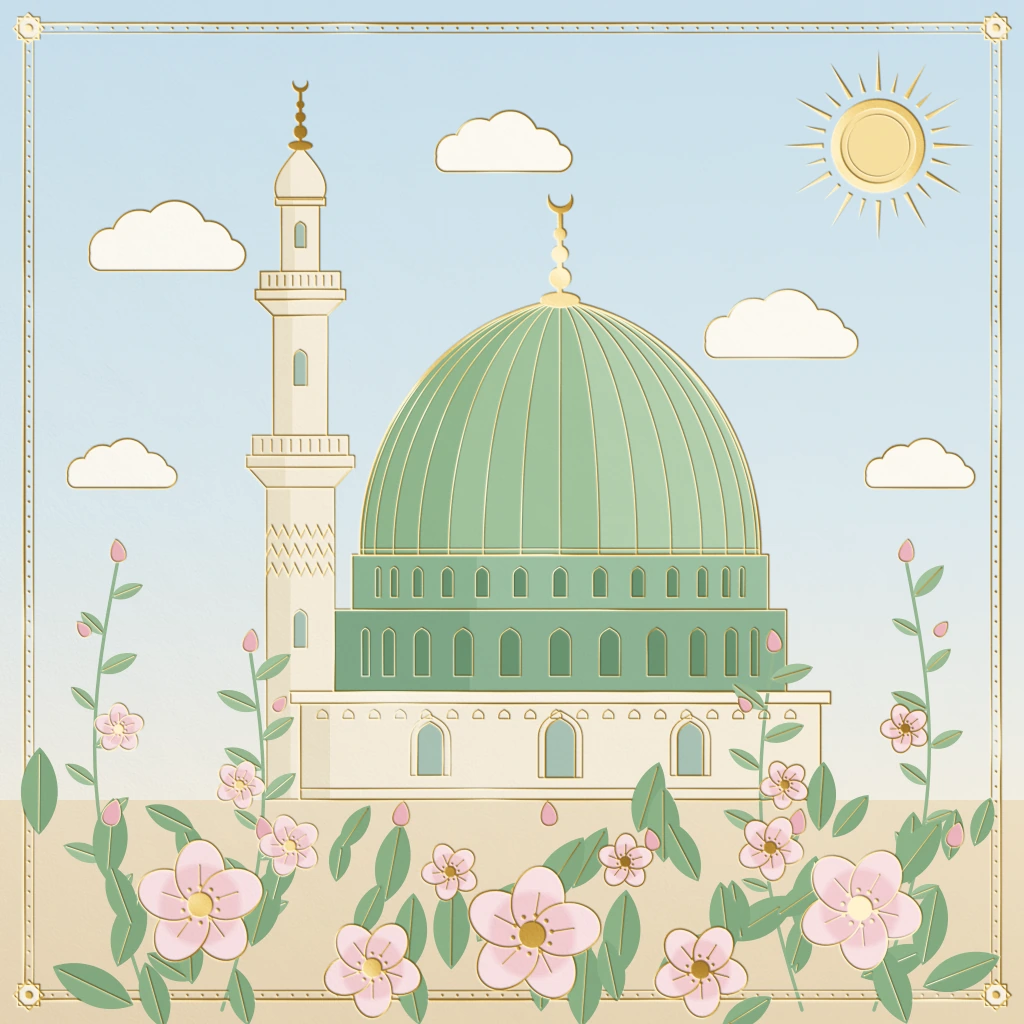
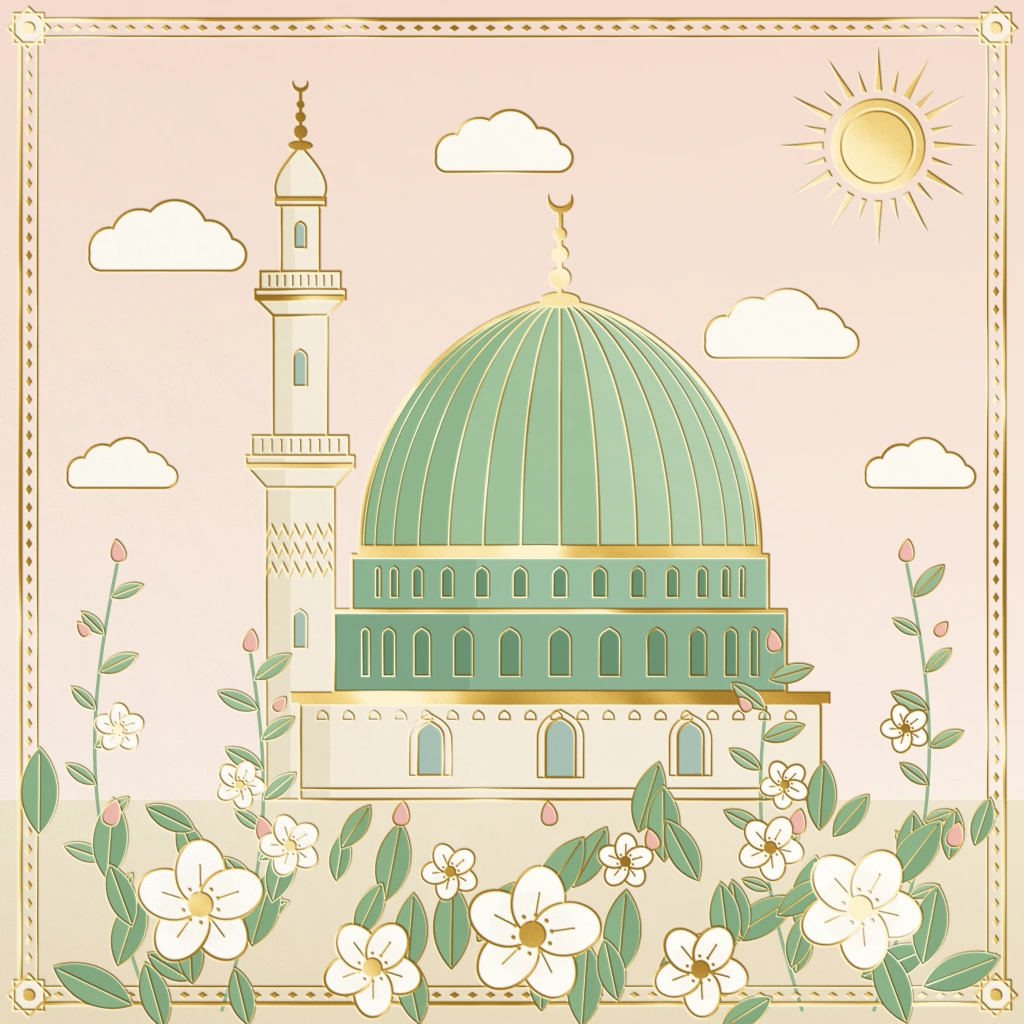
Atölye: dördüncü tur gözden geçirmelerinin ara kaydı
Claude-Session: https://claude.ai/code/session_01Q8CfoBGMPN7gfLWQYpMs1J

diff --git a/atolye/stiller/S-150-altin-varakli-kart/ornek.html b/atolye/stiller/S-150-altin-varakli-kart/ornek.html
@@ -243,14 +243,14 @@
 
   const R = {
     kart: '#F8F2E3',
-    gokUst: '#C9DFEC', gokAlt: '#F2EEE3',
+    gokUst: '#F5DCCD', gokAlt: '#FAEEE4',
     gunes: '#F7DE9E', bulut: '#FCF9F1',
     tas: '#F5EDDB', tasGolge: '#ECE1C9', pencereTas: '#A9C2B4',
     kasnakAlt: '#8DB394', kasnakAltG: '#7FA787', kasnakUst: '#9CC0A1', kasnakUstG: '#8DB493',
     kubbeA: '#B2CFAD', kubbeB: '#A1C39D', kubbeC: '#90B68D', pencereYesil: '#6A9370',
-    zemin: '#EEDFC4', zeminAlt: '#E8D6B6',
+    zemin: '#F1E6CF', zeminAlt: '#ECDDC0',
     yaprak: '#A3C49D', yaprakKoyu: '#8DB389', sap: '#94B790',
-    tac: '#F4CDD2', tacAcik: '#FAE3E5', tomurcuk: '#EDB4BE',
+    tac: '#FDFAF2', tacAcik: '#FFFDF8', tomurcuk: '#F0B9AE',
   };
   const rect = (x1, y1, x2, y2) => { const p = new Path2D(); p.rect(x1, y1, x2 - x1, y2 - y1); return p; };
   const daire = (cx, cy, r) => { const p = new Path2D(); p.arc(cx, cy, r, 0, Math.PI * 2); return p; };
@@ -258,8 +258,9 @@
 
   B.fillStyle = R.kart; B.fillRect(0, 0, 1024, 1024);
   {
+    // düz baskı gök: iki tonlu yumuşak şeftali-allık
     const g = B.createLinearGradient(0, 40, 0, 800);
-    g.addColorStop(0, R.gokUst); g.addColorStop(0.62, '#DCE9EE'); g.addColorStop(1, R.gokAlt);
+    g.addColorStop(0, R.gokUst); g.addColorStop(0.55, '#F8E6DA'); g.addColorStop(1, R.gokAlt);
     B.fillStyle = g; B.fillRect(0, 0, 1024, 800);
     const z = B.createLinearGradient(0, 800, 0, 1024);
     z.addColorStop(0, R.zemin); z.addColorStop(1, R.zeminAlt);
@@ -268,11 +269,15 @@
 
   // ---------------------------------------------------------------- çerçeve (folyo) ve köşe yıldızları
   {
-    fCiz(rect(24, 24, 1000, 1000), 2.4);
-    fCiz(rect(33, 33, 991, 991), 1.1);
-    // iki çizgi arasında ince folyo inci dizisi
-    for (let t = 52; t <= 972; t += 15) {
-      for (const [x, y] of [[t, 28.5], [t, 995.5], [28.5, t], [995.5, t]]) fDol(daire(x, y, 1.25));
+    fCiz(rect(20, 20, 1004, 1004), 4.2);
+    fCiz(rect(37, 37, 987, 987), 2.0);
+    // iki çizgi arasında folyo baklava dizisi
+    const baklava = (x, y, r) => { const p = new Path2D(); p.moveTo(x - r, y); p.lineTo(x, y - r * 0.62); p.lineTo(x + r, y); p.lineTo(x, y + r * 0.62); p.closePath(); return p; };
+    for (let t = 58; t <= 966; t += 18) {
+      fDol(baklava(t, 28.5, 5.2)); fDol(baklava(t, 995.5, 5.2));
+      const q = baklava(0, 0, 5.2);
+      F.save(); F.translate(28.5, t); F.rotate(Math.PI / 2); F.fill(q); F.restore();
+      F.save(); F.translate(995.5, t); F.rotate(Math.PI / 2); F.fill(q); F.restore();
     }
     const yildiz = (cx, cy, r) => {
       const p = new Path2D();
@@ -288,11 +293,11 @@
       return p;
     };
     for (const [cx, cy] of [[28.5, 28.5], [995.5, 28.5], [28.5, 995.5], [995.5, 995.5]]) {
-      const y = yildiz(cx, cy, 15);
+      const y = yildiz(cx, cy, 21);
       B.fillStyle = R.kart; B.fill(y, 'nonzero');
       F.save(); F.globalCompositeOperation = 'destination-out'; F.fill(y, 'nonzero'); F.restore();
-      fCiz(y, 1.8);
-      fDol(daire(cx, cy, 4.2));
+      fCiz(y, 2.4);
+      fDol(daire(cx, cy, 6.5));
     }
   }
 
@@ -300,13 +305,12 @@
   {
     const cx = 878, cy = 146;
     fDol(daire(cx, cy, 47));
-    F.save(); F.globalCompositeOperation = 'destination-out'; F.fill(daire(cx, cy, 37)); F.restore();
-    dol(daire(cx, cy, 37), R.gunes);
-    fCiz(daire(cx, cy, 31), 1.0);
+    F.save(); F.globalCompositeOperation = 'destination-out'; F.lineWidth = 2.2; F.stroke(daire(cx, cy, 36)); F.restore();
+    dol(daire(cx, cy, 47), R.gunes);
     for (let k = 0; k < 24; k++) {
       const a = (k / 24) * Math.PI * 2 - Math.PI / 2;
       const uzun = k % 2 === 0;
-      const r0 = 55, r1 = uzun ? 96 : 76, yw = uzun ? 0.045 : 0.035;
+      const r0 = 55, r1 = uzun ? 100 : 78, yw = uzun ? 0.07 : 0.05;
       const p = new Path2D();
       p.moveTo(cx + Math.cos(a - yw) * r0, cy + Math.sin(a - yw) * r0);
       p.lineTo(cx + Math.cos(a) * r1, cy + Math.sin(a) * r1);
@@ -329,7 +333,7 @@
   for (const [x, y, s] of [[156, 248, 0.92], [494, 152, 0.8], [770, 336, 0.9], [912, 472, 0.64], [114, 472, 0.64]]) {
     const p = bulutYolu(x, y, s);
     // dış hat: biraz büyütülmüş folyo kontur (birleşik biçimin çevresi)
-    F.save(); F.lineWidth = 3.2; F.stroke(p); F.restore();
+    F.save(); F.lineWidth = 5.0; F.stroke(p); F.restore();
     dol(p, R.bulut);
     F.save(); F.globalCompositeOperation = 'destination-out'; F.fill(p); F.restore();
   }
@@ -345,19 +349,24 @@
       dol(d, R.tas);
       // tek ton gölge: sol yarı
       B.save(); B.clip(d); B.fillStyle = R.tasGolge; B.fillRect(x1 - 2, 0, (x2 - x1) * 0.36 + 2, 1024); B.restore();
-      fCiz(d, 1.5);
+      fCiz(d, 2.4);
       if (p.tip === 'korkuluk') {
         for (let i = 0; i < 9; i++) {
           const x = p.x1 + 5 + ((p.x2 - p.x1 - 10) * (i + 0.5)) / 9;
           const l = new Path2D(); l.moveTo(x, p.y1 + 4); l.lineTo(x, p.y2 - 4);
-          fCiz(l, 1.3);
+          fCiz(l, 1.8);
         }
       }
     }
-    for (const z of S.zikzakCizgileri()) { F.lineJoin = 'miter'; fCiz(P(S.yol(z)), 1.7); F.lineJoin = 'round'; }
+    for (const z of S.zikzakCizgileri()) { F.lineJoin = 'miter'; fCiz(P(S.yol(z)), 2.6); F.lineJoin = 'round'; }
     for (const w of S.minarePencereleri) {
       const d = P(S.kemerYolu(w.x, w.y, w.w, w.h));
-      dol(d, R.pencereTas); fCiz(d, 1.3);
+      dol(d, R.pencereTas); fCiz(d, 2.0);
+    }
+    // şerefe ve bilezik altında dolu folyo şerit
+    for (const p of S.minareParcalari()) {
+      if (p.ad.startsWith('şerefe')) { const y2 = p.noktalar[2][1]; F.fillRect(p.noktalar[0][0] + 1, y2 - 5, p.noktalar[1][0] - p.noktalar[0][0] - 2, 4); }
+      if (p.ad === 'bilezik') F.fillRect(p.noktalar[0][0], p.noktalar[0][1], p.noktalar[1][0] - p.noktalar[0][0], 4);
     }
   }
 
@@ -368,18 +377,19 @@
     F.save(); F.globalCompositeOperation = 'destination-out'; F.fill(g); F.fill(rect(K.kornis.x1, K.kornis.y1, K.kornis.x2, K.kornis.y2)); F.restore();
     dol(g, R.tas);
     B.save(); B.clip(g); B.fillStyle = R.tasGolge; B.fillRect(K.x1, K.y1, 30, K.y2 - K.y1); B.restore();
-    fCiz(g, 2.0);
+    fCiz(g, 3.0);
     const kp = K.kornis;
     const kr = rect(kp.x1, kp.y1, kp.x2, kp.y2);
-    dol(kr, '#FAF4E6'); fCiz(kr, 1.7);
-    const ts = new Path2D(); ts.moveTo(K.x1, 789); ts.lineTo(K.x2, 789); fCiz(ts, 1.2);
+    // korniş: dolu folyo bant
+    dol(kr, '#FAF4E6'); fDol(kr);
+    const ts = new Path2D(); ts.moveTo(K.x1, 789); ts.lineTo(K.x2, 789); fCiz(ts, 2.2);
     // korniş altında küçük kemer frizi (folyo)
-    for (let x = K.x1 + 22; x <= K.x2 - 20; x += 26) fCiz(P(S.kemerYolu(x, 710, 11, 9)), 1.0);
+    for (let x = K.x1 + 22; x <= K.x2 - 20; x += 26) fCiz(P(S.kemerYolu(x, 711, 11, 9)), 1.6);
     for (const w of K.pencereler) {
       const d = P(S.kemerYolu(w.x, w.y, w.w, w.h));
       dol(d, R.pencereTas);
-      fCiz(d, 1.6);
-      fCiz(P(S.kemerYolu(w.x, w.y - 7, w.w + 14, w.h + 7)), 1.1);
+      fCiz(d, 2.6);
+      fCiz(P(S.kemerYolu(w.x, w.y - 8, w.w + 16, w.h + 8)), 1.8);
     }
   }
 
@@ -389,11 +399,12 @@
     const g = rect(q.x1, q.y1, q.x2, q.y2);
     dol(g, k === 1 ? R.kasnakAlt : R.kasnakUst);
     B.save(); B.clip(g); B.fillStyle = k === 1 ? R.kasnakAltG : R.kasnakUstG; B.fillRect(q.x1, q.y1, (q.x2 - q.x1) * 0.3, q.y2 - q.y1); B.restore();
-    fCiz(g, 1.8);
+    fCiz(g, 3.0);
+    F.fillRect(q.x1, q.y1, q.x2 - q.x1, 4);
     for (const w of S.kasnakPencereleri(k)) {
       const d = P(S.kemerYolu(w.x, w.y, w.w, w.h));
       dol(d, R.pencereYesil);
-      fCiz(d, 1.1);
+      fCiz(d, 1.8);
     }
   }
 
@@ -410,9 +421,11 @@
       const p = new Path2D(S.yol(a.concat(b.slice().reverse()), true));
       dol(p, renk);
     }
-    for (const kb of kab) fCiz(P(S.yol(kb.noktalar.filter((q) => q[1] > 304))), 1.4);
-    fCiz(dome, 2.4);
-    const et = new Path2D(); et.moveTo(362, 549); et.lineTo(758, 549); fCiz(et, 1.2);
+    F.save(); F.clip(dome);
+    for (const kb of kab) fCiz(P(S.yol(kb.noktalar.filter((q) => q[1] > 304))), 2.6 * Math.max(0.55, Math.sqrt(1 - kb.u * kb.u)));
+    F.fillRect(350, 545, 420, 10);
+    F.restore();
+    fCiz(dome, 4.2);
   }
 
   // ---------------------------------------------------------------- alemler (dolu folyo)
@@ -443,17 +456,18 @@
     B.fillStyle = 'rgba(70,110,72,0.12)'; B.fill(); B.restore();
     const [a0, a1] = S.yaprakDamari(y);
     const l = new Path2D(); l.moveTo(a0[0] + ca * 4, a0[1] + sa * 4); l.lineTo(a1[0], a1[1]);
-    fCiz(l, 1.0);
+    fCiz(l, 1.6);
+    fCiz(d, 1.3);
   }
   for (const t of S.bitki.tomurcuklar) {
     const d = P(S.tomurcukYolu(t));
     F.save(); F.globalCompositeOperation = 'destination-out'; F.fill(d); F.restore();
     dol(d, R.tomurcuk);
-    fCiz(d, 1.0);
+    fCiz(d, 1.6);
   }
   for (const c of S.bitki.cicekler) {
     const tac = S.tacYapraklari(c);
-    const lw = c.r > 40 ? 1.7 : 1.25;
+    const lw = c.r > 40 ? 2.8 : 2.0;
     for (const e of tac) {
       const d = P(S.elipsYolu(e));
       F.save(); F.globalCompositeOperation = 'destination-out'; F.fill(d); F.restore();
@@ -467,7 +481,7 @@
       const l = new Path2D();
       l.moveTo(c.x + Math.cos(e.aci) * c.r * 0.32, c.y + Math.sin(e.aci) * c.r * 0.32);
       l.lineTo(c.x + Math.cos(e.aci) * c.r * 0.64, c.y + Math.sin(e.aci) * c.r * 0.64);
-      fCiz(l, c.r > 40 ? 1.1 : 0.8);
+      fCiz(l, c.r > 40 ? 1.7 : 1.2);
     }
     fDol(daire(c.x, c.y, c.r * 0.21));
     for (let i = 0; i < 10; i++) {

diff --git a/atolye/stiller/S-123-gradyan-ag/ornek.html b/atolye/stiller/S-123-gradyan-ag/ornek.html
@@ -717,6 +717,17 @@
         ctx.fill();
         ctx.restore();
       });
+      // cilalı yaprak yüzeyinde dar, belirgin parlama şeridi (ışıklı yarıda, damara paralel)
+      const pa = p(Lu * 0.18, sgn * W * 0.2), pb = p(Lu * 0.5, sgn * W * 0.34), pc = p(Lu * 0.84, sgn * W * 0.14);
+      const pd = p(Lu * 0.5, sgn * W * 0.22);
+      yumusak(Math.max(0.5, W * 0.03), () => {
+        ctx.fillStyle = 'rgba(240,255,225,0.42)';
+        ctx.beginPath();
+        ctx.moveTo(pa[0], pa[1]);
+        ctx.quadraticCurveTo(pb[0], pb[1], pc[0], pc[1]);
+        ctx.quadraticCurveTo(pd[0], pd[1], pa[0], pa[1]);
+        ctx.fill();
+      });
       // kenarda serin gök yansıması
       yumusak(W * 0.08, () => {
         ctx.lineWidth = W * 0.12;
